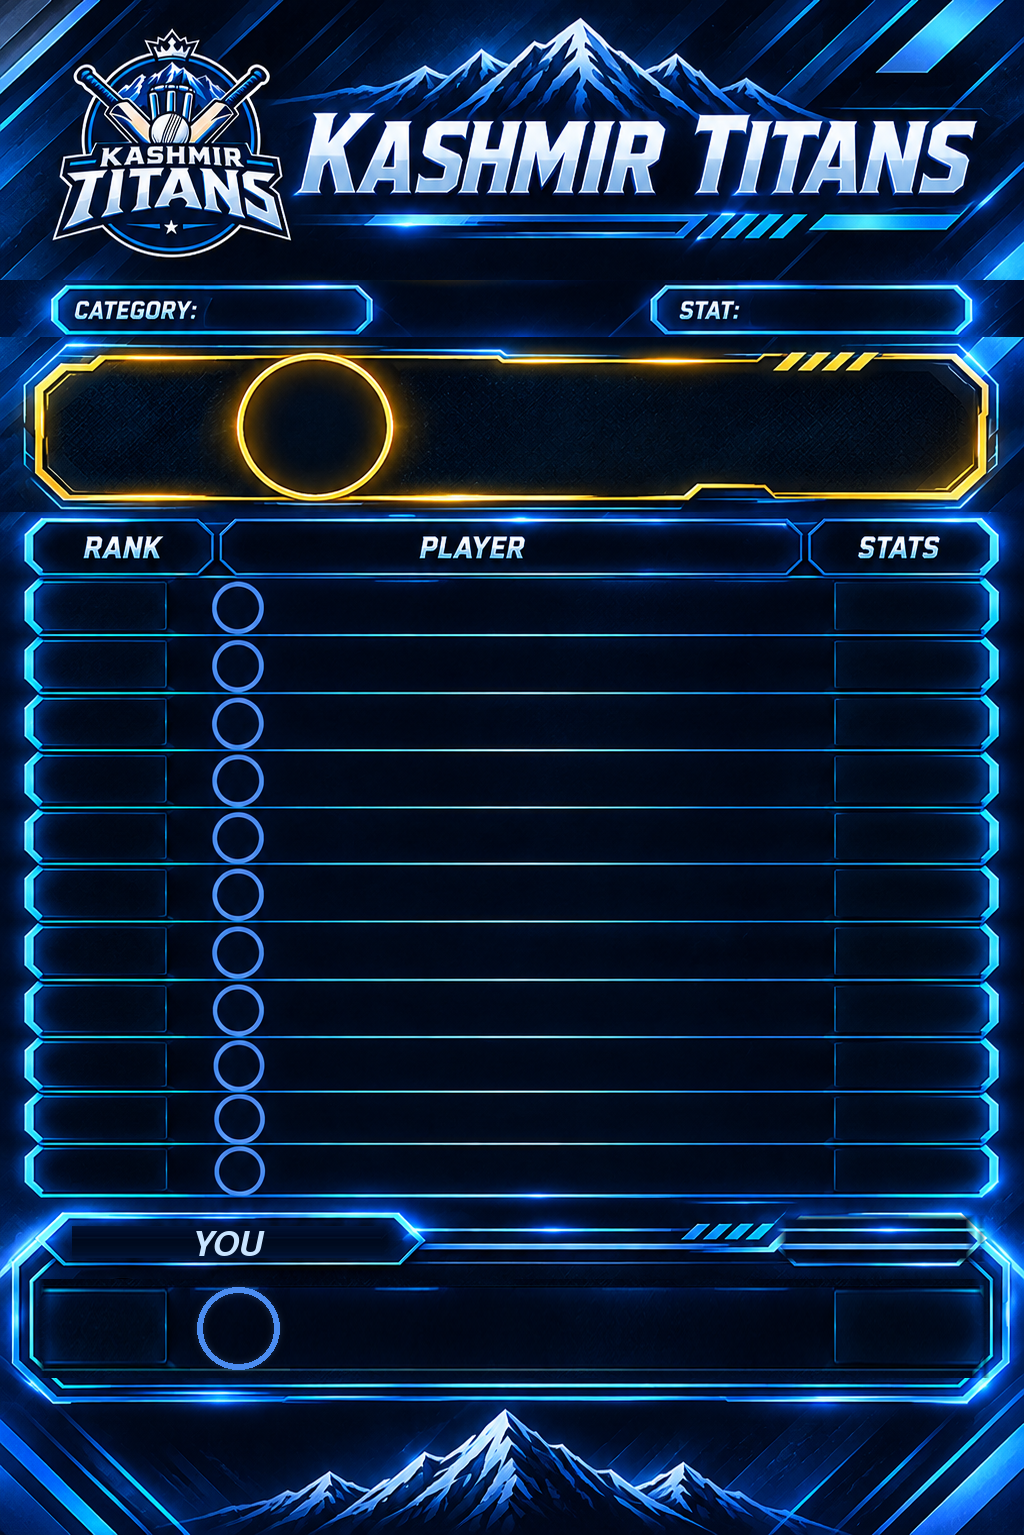
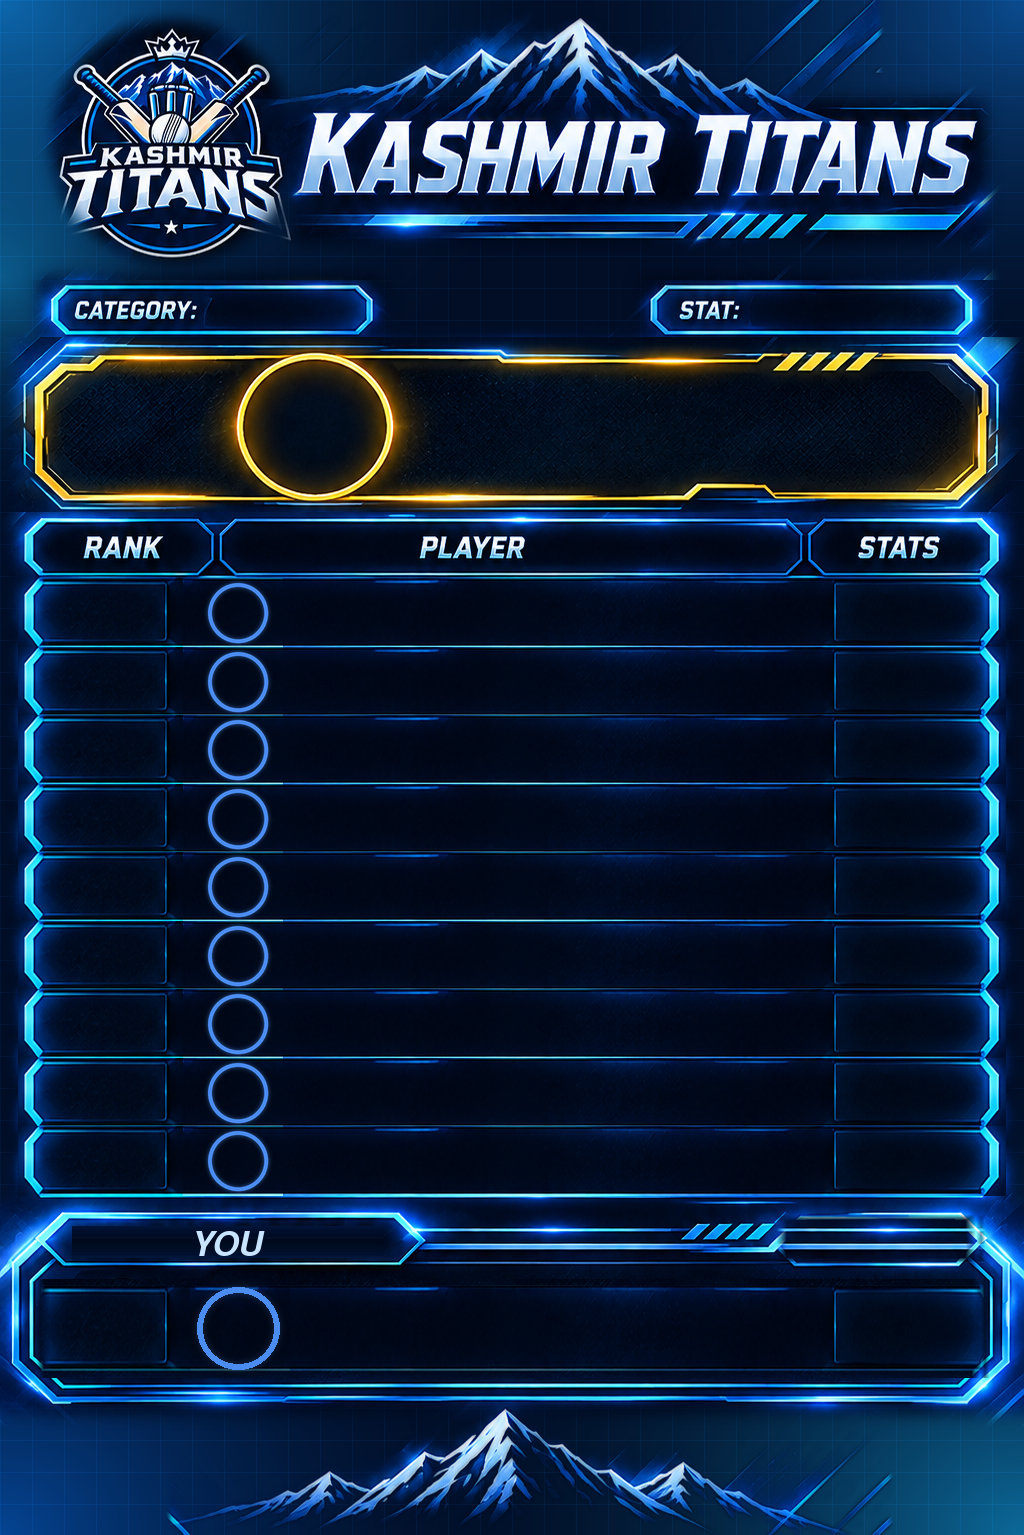
+lb card: 10 players per page and calmer reference-style background
- Gold box + 9 taller rows = 10 players per page; page 2 starts at rank 11
- Template rows rebuilt with true circular avatar rings and larger text
- Background recoloured to dark navy with soft teal-blue corner glow

Claude-Session: https://claude.ai/code/session_01G8yaRiGYswbcSGKgUroHVx

diff --git a/cogs/lb_card.py b/cogs/lb_card.py
@@ -23,10 +23,10 @@ GOLD_RANK_X = 85
 GOLD_NAME_X = 425
 GOLD_STAT_RIGHT = 955
 
-ROWS = 11                                # rows under the gold box
+ROWS = 9                                 # rows under the gold box (gold + 9 = 10 players per page)
 # measured centre y of each avatar ring on the template (the rows are not evenly spaced)
-ROW_CY = [607, 666, 723, 780, 837, 894, 952, 1010, 1066, 1119, 1171]
-ROW_AV_X, ROW_AV_R = 238, 22             # ring centre x, INNER radius
+ROW_CY = [613, 682, 750, 819, 887, 956, 1024, 1093, 1161]
+ROW_AV_X, ROW_AV_R = 238, 26             # ring centre x, INNER radius
 RANK_CX = (28 + 165) // 2
 NAME_X = 285
 STAT_BOX = (838, 992)
@@ -97,7 +97,7 @@ def render_card(category: str, stat_label: str, top: dict | None, rows: list[dic
                 you: dict | None, page_text: str = "") -> bytes:
     """
     top  : {"rank", "name", "value", "avatar"} for the gold box (overall #1) or None
-    rows : up to 11 dicts like top, each with its real rank
+    rows : up to 9 dicts like top, each with its real rank
     you  : {"rank", "name", "value", "avatar"} for the person who typed +lb, or None
     avatar is PNG/JPEG bytes or None. Returns JPEG bytes.
     """
@@ -118,10 +118,10 @@ def render_card(category: str, stat_label: str, top: dict | None, rows: list[dic
 
     for i, e in enumerate(rows[:ROWS]):
         cy = ROW_CY[i]
-        _put(d, e["rank"], 30, RANK_CX, cy, ICE, 120, "m")
+        _put(d, e["rank"], 33, RANK_CX, cy, ICE, 120, "m")
         _avatar(img, e.get("avatar"), ROW_AV_X, cy, ROW_AV_R)
-        _put(d, e["name"], 29, NAME_X, cy, ICE, STAT_BOX[0] - 20 - NAME_X)
-        _put(d, e["value"], 29, (STAT_BOX[0] + STAT_BOX[1]) // 2, cy, ICE, STAT_BOX[1] - STAT_BOX[0] - 14, "m")
+        _put(d, e["name"], 32, NAME_X, cy, ICE, STAT_BOX[0] - 20 - NAME_X)
+        _put(d, e["value"], 32, (STAT_BOX[0] + STAT_BOX[1]) // 2, cy, ICE, STAT_BOX[1] - STAT_BOX[0] - 14, "m")
 
     if you:
         _put(d, you.get("rank", "-"), 30, YOU_RANK_CX, YOU_Y, GOLD, 115, "m")

diff --git a/cogs/lb.py b/cogs/lb.py
@@ -24,7 +24,7 @@ BLUE = discord.Colour.from_rgb(20, 117, 255)
 # Batter-impact metrics live in the Batting category but come from batfds' table.
 # Value = index into (runs_after_drops, runs_without_drops, catches_dropped).
 BATTER_IMPACT_KEYS = {"bi_after": 0, "bi_without": 1, "bi_drops": 2}
-PAGE_SIZE = 11  # card rows under the gold box; the gold box is always overall #1
+PAGE_SIZE = 10  # players per card page: the gold box (first of the page) + 9 rows
 EMBED_PAGE_SIZE = 10  # Fielding and Team Fielding stay as the classic embed
 EMBED_CATEGORIES = ("Fielding", "Team Fielding")
 
@@ -462,10 +462,10 @@ class LeaderboardView(discord.ui.View):
         if self.category in EMBED_CATEGORIES:
             return self._classic_embed(computed), None
         total = len(computed)
-        pages = max(1, (max(total - 1, 0) + PAGE_SIZE - 1) // PAGE_SIZE)
+        pages = max(1, (total + PAGE_SIZE - 1) // PAGE_SIZE)
         self.page = max(0, min(self.page, pages - 1))
-        first = 1 + self.page * PAGE_SIZE          # index of the first table row (index 0 is the gold box)
-        current = computed[first:first + PAGE_SIZE]
+        first = self.page * PAGE_SIZE              # index of the first player on this page (shown in the gold box)
+        current = computed[first + 1:first + PAGE_SIZE]
         is_team = self.category == "Team Fielding"
         key = self.metric_key
 
@@ -480,8 +480,8 @@ class LeaderboardView(discord.ui.View):
 
         author = self.ctx.author
         top, *rows, you_avatar = await asyncio.gather(
-            entry(1, *computed[0]) if computed else asyncio.sleep(0),
-            *[entry(first + i + 1, uid, value) for i, (uid, value) in enumerate(current)],
+            entry(first + 1, *computed[first]) if computed else asyncio.sleep(0),
+            *[entry(first + i + 2, uid, value) for i, (uid, value) in enumerate(current)],
             self.cog.avatar_bytes(author),
         )
         rows = list(rows)
